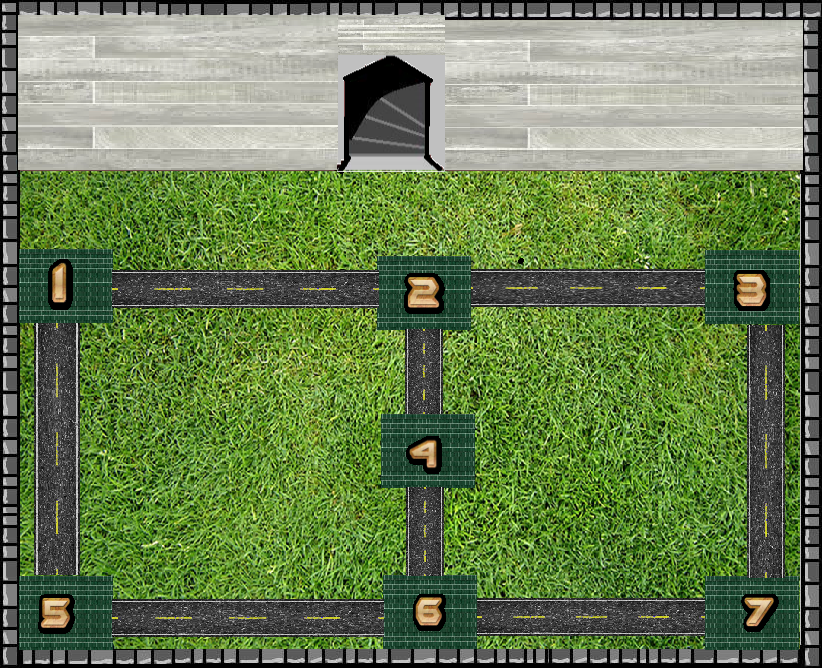
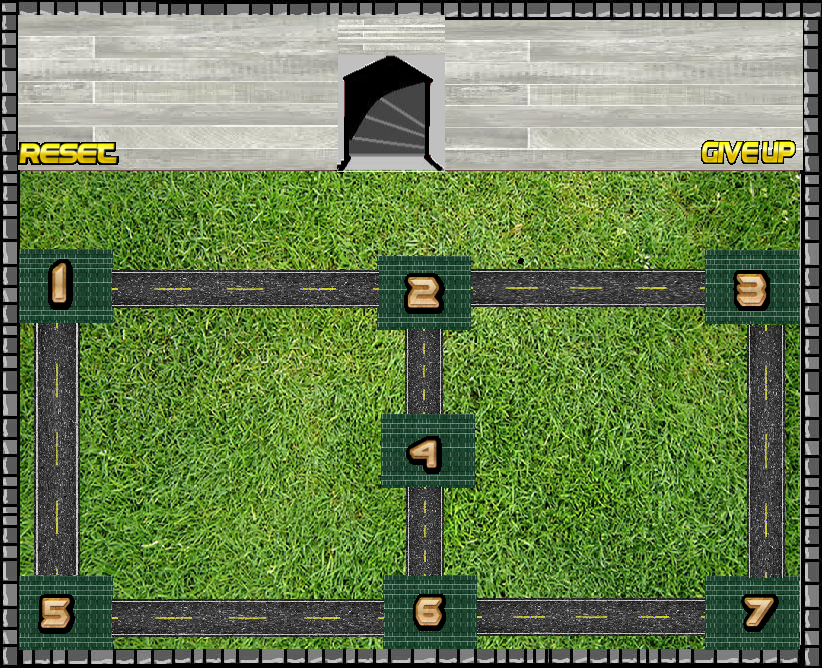
allmostdone

Changed region(s): [[0.0, 0.2096, 0.1519, 0.2695], [0.8505, 0.2096, 0.9721, 0.2695]]

diff --git a/Runner/src/javaapp/Runner/Room3/StreetLight.java b/Runner/src/javaapp/Runner/Room3/StreetLight.java
@@ -31,123 +31,10 @@ public class StreetLight {
 	public void tick() {
 		timer++;
 
-		boolean platform1 = Player.getYPos() < 290 && Player.getYPos() > 200 && Player.getXPos() > 10
-				&& Player.getXPos() < 100 && timer > 50;
-		boolean platform2 = Player.getYPos() < 290 && Player.getYPos() > 200 && Player.getXPos() > 370
-				&& Player.getXPos() < 450 && timer > 50;
-		boolean platform3 = Player.getYPos() < 290 && Player.getYPos() > 200 && Player.getXPos() > 680
-				&& Player.getXPos() < 780 && timer > 50;
-		boolean platform4 = Player.getYPos() < 620 && Player.getYPos() > 573 && Player.getXPos() > 704
-				&& Player.getXPos() < 770 && timer > 50;
-		boolean platform5 = Player.getYPos() < 456 && Player.getYPos() > 411 && Player.getXPos() > 383
-				&& Player.getXPos() < 443 && timer > 50;
-		boolean platform6 = Player.getYPos() < 618 && Player.getYPos() > 580 && Player.getXPos() > 20
-				&& Player.getXPos() < 80 && timer > 50;
-		boolean platform7 = Player.getYPos() < 620 && Player.getYPos() > 576 && Player.getXPos() > 380
-				&& Player.getXPos() < 446 && timer > 50;
-		boolean giveupplatforms = Player.getYPos() < 130 && Player.getXPos() > 720 && Player.getXPos() < 400 && timer > 770;
-		boolean resetplattform =  Player.getYPos() < 130 && Player.getXPos() > 10 && Player.getXPos() < 50 && timer > 50;;
-
-		if (platform1) {
-
-			way1to2 = !way1to2;
-			way1to5 = !way1to5;
-			timer = 0;
-		}
-
-		if (platform2) {
-
-			way1to2 = !way1to2;
-			way2to3 = !way2to3;
-			way2to4 = !way2to4;
-			timer = 0;
-		}
-
-		if (platform3) {
-
-			way2to3 = !way2to3;
-			way3to7 = !way3to7;
-			
-			timer = 0;
-		}
-
-		if (platform4) { //7
-
-			way3to7 = !way3to7;
-			way6to7 = !way6to7;
-
-			timer = 0;
-		}
-
-		if (platform5) {  // 4
-
-			way2to4 = !way2to4; 
-
-			way4to6 = !way4to6;
-			
-
-			timer = 0;
-		}
-
-		if (platform6) { // 5
-
-			way1to5 = !way1to5;
-			way5to6 = !way5to6;
-			timer = 0;
-		}
-
-		if (platform7) { // 6
-
-			way6to7 = !way6to7;
-			way4to6 = !way4to6;
-			way5to6 = !way5to6;
-			timer = 0;
-		}
-		
-		
-		if(timer > 600) {
-			way4to6 = true;
-		}
-		if(timer > 1800) {
-			way1to2 = true;
-		}
-		if(timer > 2200) {
-			way4to6 = true;
-		}
-		if(timer > 2500) {
-			way2to3 = true;
-		}
-		if(timer > 2700) {
-			way4to6 = true;
-		}
-		if(timer > 3000) {
-			way5to6 = true;
-		}
-		
-		
-		if(giveupplatforms) {
-			 
-			 way1to2 = true;
-			 way1to5 = true;
-			 way2to3 = true;
-			 way2to4 = true;
-			 way3to7 = true;
-			 way6to7 = true;
-			 way4to6 = true;
-			 way5to6 = true;
-			
-		}
-		if(resetplattform) {
-			way1to2 = false;
-			 way1to5 = false;
-			 way2to3 = false;
-			 way2to4 = false;
-			 way3to7 = false;
-			 way6to7 = false;
-			 way4to6 = false;
-			 way5to6 = false;
-			
-		}
+		platforms();
+		helpMetods();
+		turnOnAll();
+		TurnoffAll();
 		
 	
 	}
@@ -225,12 +112,162 @@ public class StreetLight {
 		}
 		
 		
-	
-		
 
 	}
 	
-	public boolean allFlags() {
+	 public void platforms() {
+		 
+		 boolean platform1 = Player.getYPos() < 290 && Player.getYPos() > 200 && Player.getXPos() > 10
+					&& Player.getXPos() < 100 && timer > 50;
+			 boolean platform2 = Player.getYPos() < 290 && Player.getYPos() > 200 && Player.getXPos() > 370
+					&& Player.getXPos() < 450 && timer > 50;
+		 boolean platform3 = Player.getYPos() < 290 && Player.getYPos() > 200 && Player.getXPos() > 680
+					&& Player.getXPos() < 780 && timer > 50;
+			 boolean platform4 = Player.getYPos() < 620 && Player.getYPos() > 573 && Player.getXPos() > 704
+					&& Player.getXPos() < 770 && timer > 50;
+			 boolean platform5 = Player.getYPos() < 456 && Player.getYPos() > 411 && Player.getXPos() > 383
+					&& Player.getXPos() < 443 && timer > 50;
+	 boolean platform6 = Player.getYPos() < 618 && Player.getYPos() > 580 && Player.getXPos() > 20
+					&& Player.getXPos() < 80 && timer > 50;
+ boolean platform7 = Player.getYPos() < 620 && Player.getYPos() > 576 && Player.getXPos() > 380
+					&& Player.getXPos() < 446 && timer > 50;
+		
+
+		 if (platform1) {
+
+				way1to2 = !way1to2;
+				way1to5 = !way1to5;
+				timer = 0;
+			}
+
+			if (platform2) {
+
+				way1to2 = !way1to2;
+				way2to3 = !way2to3;
+				way2to4 = !way2to4;
+				timer = 0;
+			}
+
+			if (platform3) {
+
+				way2to3 = !way2to3;
+				way3to7 = !way3to7;
+				
+				timer = 0;
+			}
+
+			if (platform4) { //7
+
+				way3to7 = !way3to7;
+				way6to7 = !way6to7;
+
+				timer = 0;
+			}
+
+			if (platform5) {  // 4
+
+				way2to4 = !way2to4; 
+
+				way4to6 = !way4to6;
+				
+
+				timer = 0;
+			}
+
+			if (platform6) { // 5
+
+				way1to5 = !way1to5;
+				way5to6 = !way5to6;
+				timer = 0;
+			}
+
+			if (platform7) { // 6
+
+				way6to7 = !way6to7;
+				way4to6 = !way4to6;
+				way5to6 = !way5to6;
+				timer = 0;
+			}
+			
+			
+			if(timer > 600) {
+				way4to6 = true;
+			}
+			if(timer > 1800) {
+				way1to2 = true;
+			}
+			if(timer > 2200) {
+				way4to6 = true;
+			}
+			if(timer > 2500) {
+				way2to3 = true;
+			}
+			if(timer > 2700) {
+				way4to6 = true;
+			}
+			if(timer > 3000) {
+				way5to6 = true;
+			}
+			
+		 
+	 }
+	
+public void helpMetods() {
+		 if(timer > 600) {
+				way4to6 = true;
+			}
+		if(timer > 1800) {
+				way1to2 = true;
+			}
+		if(timer > 2200) {
+				way4to6 = true;
+			}
+		if(timer > 2500) {
+				way2to3 = true;
+			}
+		if(timer > 2700) {
+				way4to6 = true;
+			}
+		if(timer > 3000) {
+				way5to6 = true;
+			} 
+	 }
+	 
+public void turnOnAll() {
+	boolean giveupplatforms = Player.getYPos() < 130 && Player.getXPos() > 650 && Player.getXPos() < 770 && timer > 50;
+			if(giveupplatforms) {
+			 
+				 way1to2 = true;
+				 way1to5 = true;
+				 way2to3 = true;
+				 way2to4 = true;
+				 way3to7 = true;
+				 way6to7 = true;
+				 way4to6 = true;
+		     	 way5to6 = true;
+			
+		}
+			
+
+		 
+	 }
+
+public void TurnoffAll() {
+	 boolean resetplattform =  Player.getYPos() < 130 && Player.getXPos() > 10 && Player.getXPos() < 100 && timer > 50;;
+	if(resetplattform) {
+		
+		
+		way1to2 = false;
+		 way1to5 = false;
+		 way2to3 = false;
+		 way2to4 = false;
+		 way3to7 = false;
+		 way6to7 = false;
+		 way4to6 = false;
+		 way5to6 = false;
+}
+}
+public boolean allFlags() {
 		return  way1to2&&way1to5 && way2to3 && way2to4&& way3to7&& way6to7;//flgga7;
 	}
 }

diff --git a/Runner/src/javaapp/Runner/Room3/TimeTaker.java b/Runner/src/javaapp/Runner/Room3/TimeTaker.java
@@ -9,11 +9,10 @@ import javaapp.Runner.Gameengine.Player;
  *
  */
 public class TimeTaker {
-	
-
 private float x , y;
+
 private boolean flagga0, flagga1,flagga2,flagga3,flagga4,flagga5,flagga6,flagga7,flagga8,flagga9,
-flagga10,flagga11,flagga12,flagga13,flagga14,flagga15;
+					flagga10,flagga11,flagga12,flagga13,flagga14,flagga15;
 private int posX =150;
 private int timer;
 	
@@ -89,7 +88,8 @@ public void tick(){
 	
 	if(timer > a*15 && timer < a*16) flagga15 = true;
 	else flagga15 = false;
-		
+	
+		if(timer > 1000) timer = 0;
 			
 			}	
 
